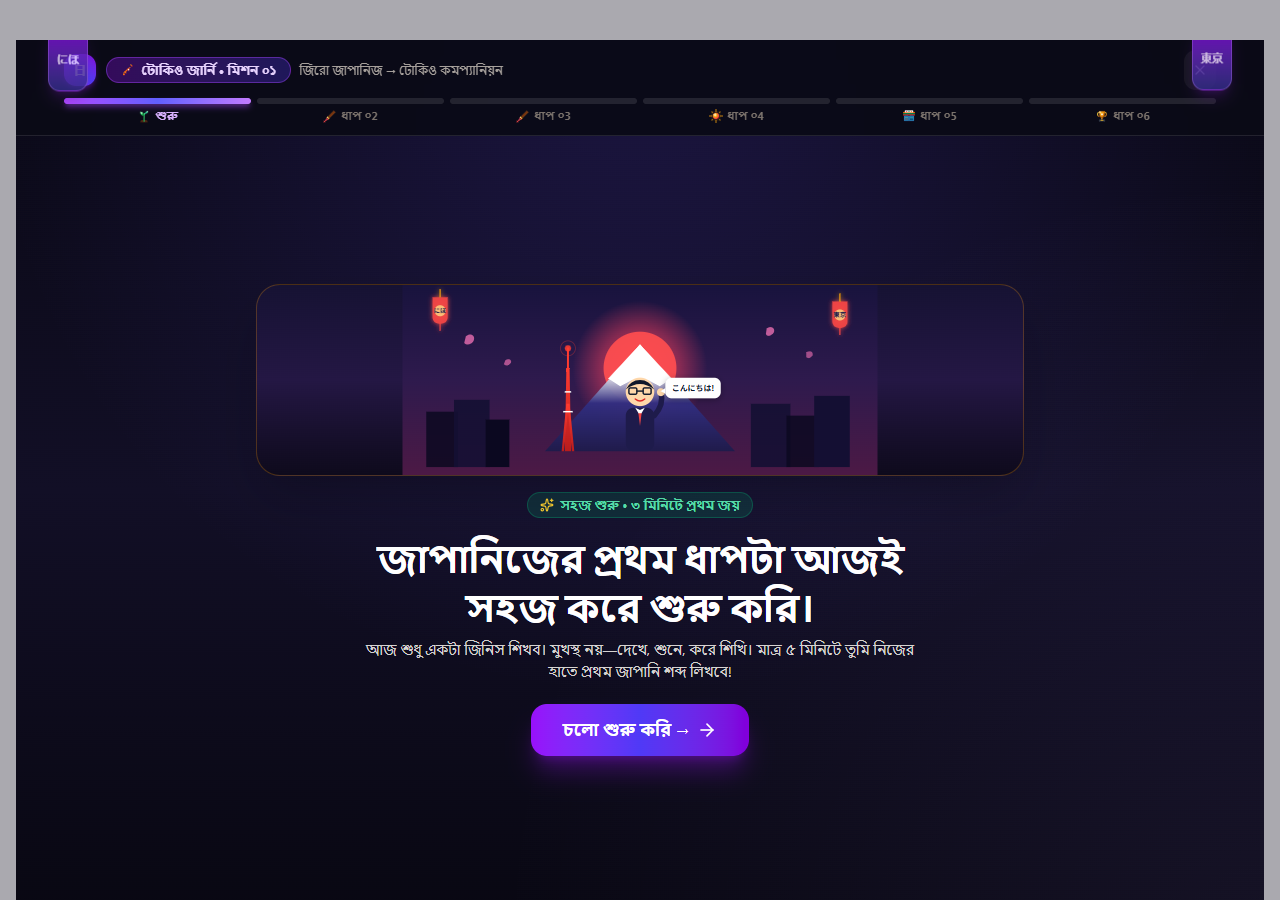
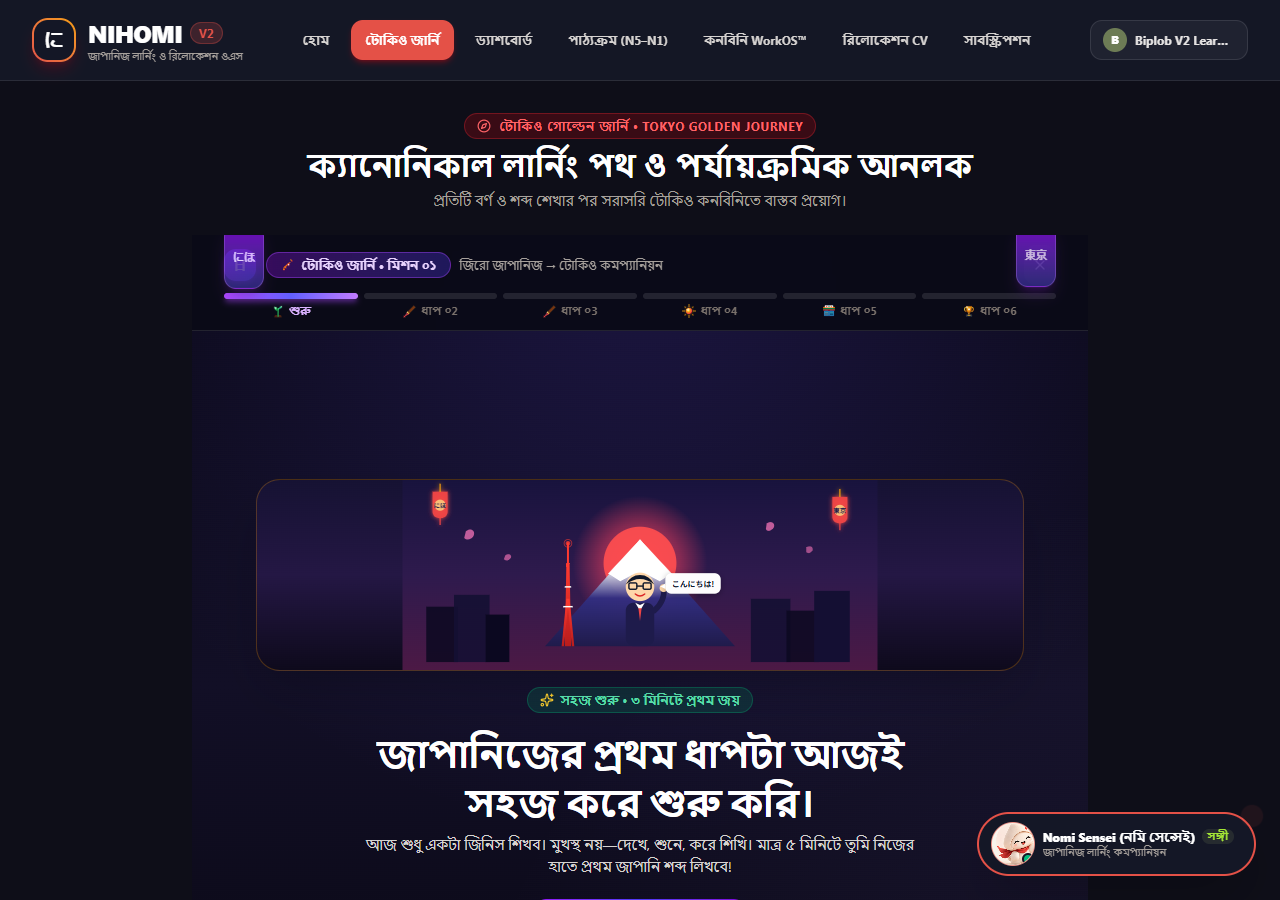
feat(v2): harden root routing and deep hash subroute hydration to prevent legacy interception

diff --git a/src/App.tsx b/src/App.tsx
@@ -210,22 +210,30 @@ import { updatePageMetaTags } from './lib/seo';
 
 const resolveViewFromUrl = (pathname: string, searchParams: URLSearchParams): { view: string; params: Record<string, any> } => {
   let path = pathname.toLowerCase();
-  if (typeof window !== 'undefined' && (path === '/' || path === '') && window.location.hash) {
+  const queryCert = searchParams.get('certId') || searchParams.get('id');
+
+  // 1. Explicit legacy mode requested via path, query param, or #legacy
+  if (
+    path === '/legacy' ||
+    path.startsWith('/legacy') ||
+    searchParams.get('mode') === 'legacy' ||
+    (typeof window !== 'undefined' && (window.location.hash === '#legacy' || window.location.hash === '#/legacy'))
+  ) {
+    return { view: 'landing', params: { legacy: true } };
+  }
+
+  // 2. Default root path & V2 deep routes strictly resolve to V2
+  // (V2 router internally handles all sub-route hashes like #dashboard, #pricing, #kana, etc.)
+  if (path === '/' || path === '' || path === '/v2' || path.startsWith('/v2/')) {
+    return { view: 'v2', params: {} };
+  }
+
+  // 3. Hash rewriting for legacy views only when on non-root legacy paths
+  if (typeof window !== 'undefined' && window.location.hash) {
     const rawHash = window.location.hash.replace(/^#\/?/, '').toLowerCase();
     if (rawHash && KNOWN_VIEWS.has(rawHash)) {
       path = '/' + rawHash;
     }
-  }
-  const queryCert = searchParams.get('certId') || searchParams.get('id');
-
-    if (path === '/legacy' || path.startsWith('/legacy') || searchParams.get('mode') === 'legacy' || (typeof window !== 'undefined' && window.location.hash === '#legacy')) {
-    return { view: 'landing', params: { legacy: true } };
-  }
-  if (path === '/' || path === '') {
-    return { view: 'v2', params: {} };
-  }
-  if (path === '/v2' || path.startsWith('/v2/')) {
-    return { view: 'v2', params: {} };
   }
   if (path === '/journey' || path === '/start-journey' || path === '/onboarding' || path === '/mission') {
     return { view: 'journey', params: {} };

diff --git a/src/v2/V2App.tsx b/src/v2/V2App.tsx
@@ -84,8 +84,11 @@ export interface V2AppProps {
 }
 
 export const V2App: React.FC<V2AppProps> = ({ onNavigateLegacy }) => {
-  const [currentRoute, setCurrentRoute] = useState<V2Route>('landing');
-  const [navParams, setNavParams] = useState<V2NavigationParams>({});
+  const [currentRoute, setCurrentRoute] = useState<V2Route>(() => {
+    const initial = parseHashRoute();
+    return initial.route === 'legacy' ? 'landing' : initial.route;
+  });
+  const [navParams, setNavParams] = useState<V2NavigationParams>(() => parseHashRoute().params);
 
   // Synchronize route from window.location.hash on initial mount & hashchange
   useEffect(() => {

diff --git a/src/v2/components/layout/V2Header.tsx b/src/v2/components/layout/V2Header.tsx
@@ -46,7 +46,7 @@ export const V2Header: React.FC<V2HeaderProps> = ({ currentRoute, onNavigate }) 
   const isFounder = user?.role === 'admin' || user?.role === 'founder';
 
   return (
-    <header className="sticky top-0 z-40 w-full bg-[#141726]/95 backdrop-blur-md border-b border-[#F6F0E6]/10 text-[#F6F0E6]">
+    <header id="v2-header" className="sticky top-0 z-40 w-full bg-[#141726]/95 backdrop-blur-md border-b border-[#F6F0E6]/10 text-[#F6F0E6]">
       <div className="max-w-7xl mx-auto px-4 sm:px-6 lg:px-8 h-16 sm:h-20 flex items-center justify-between">
         
         {/* Brand Logo & Tagline */}
